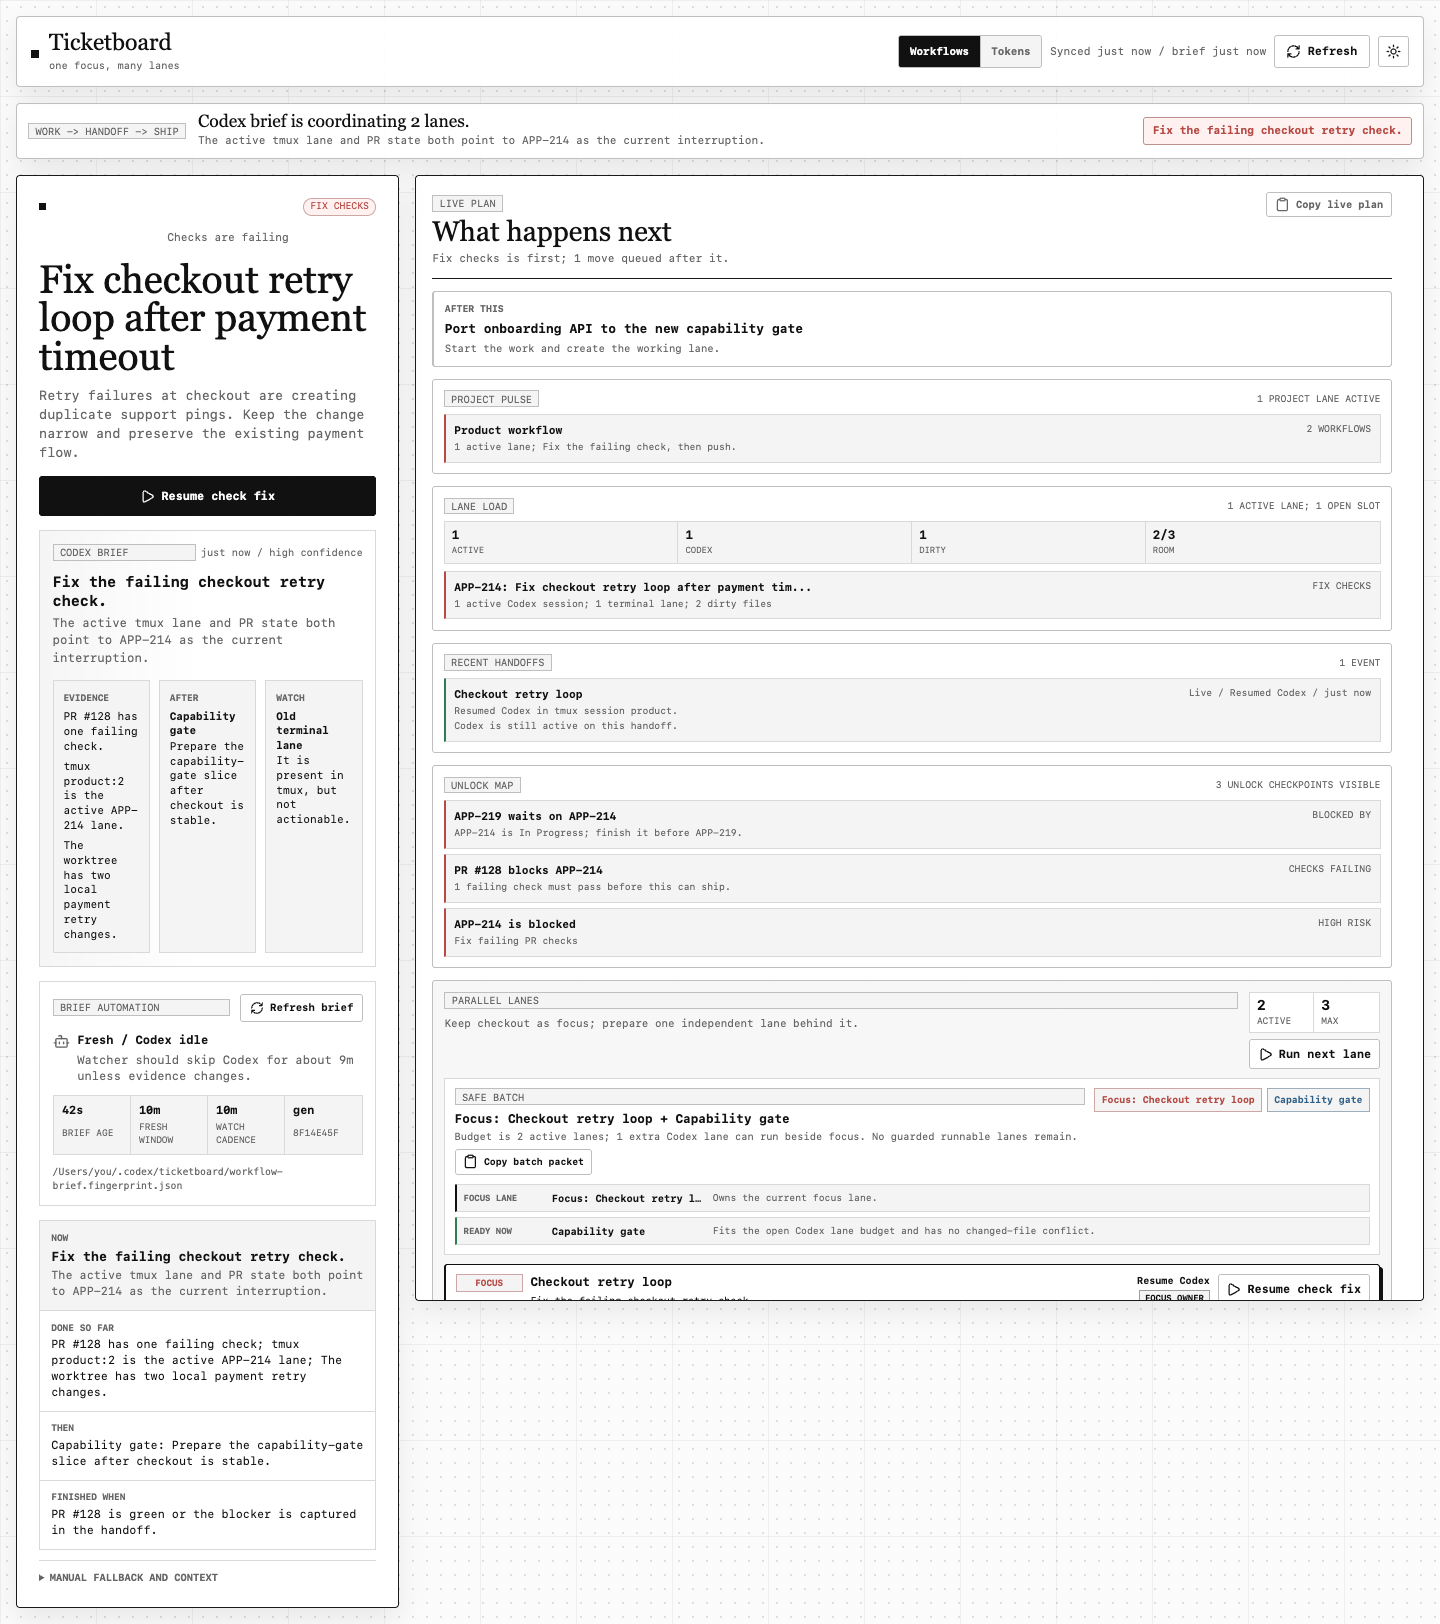
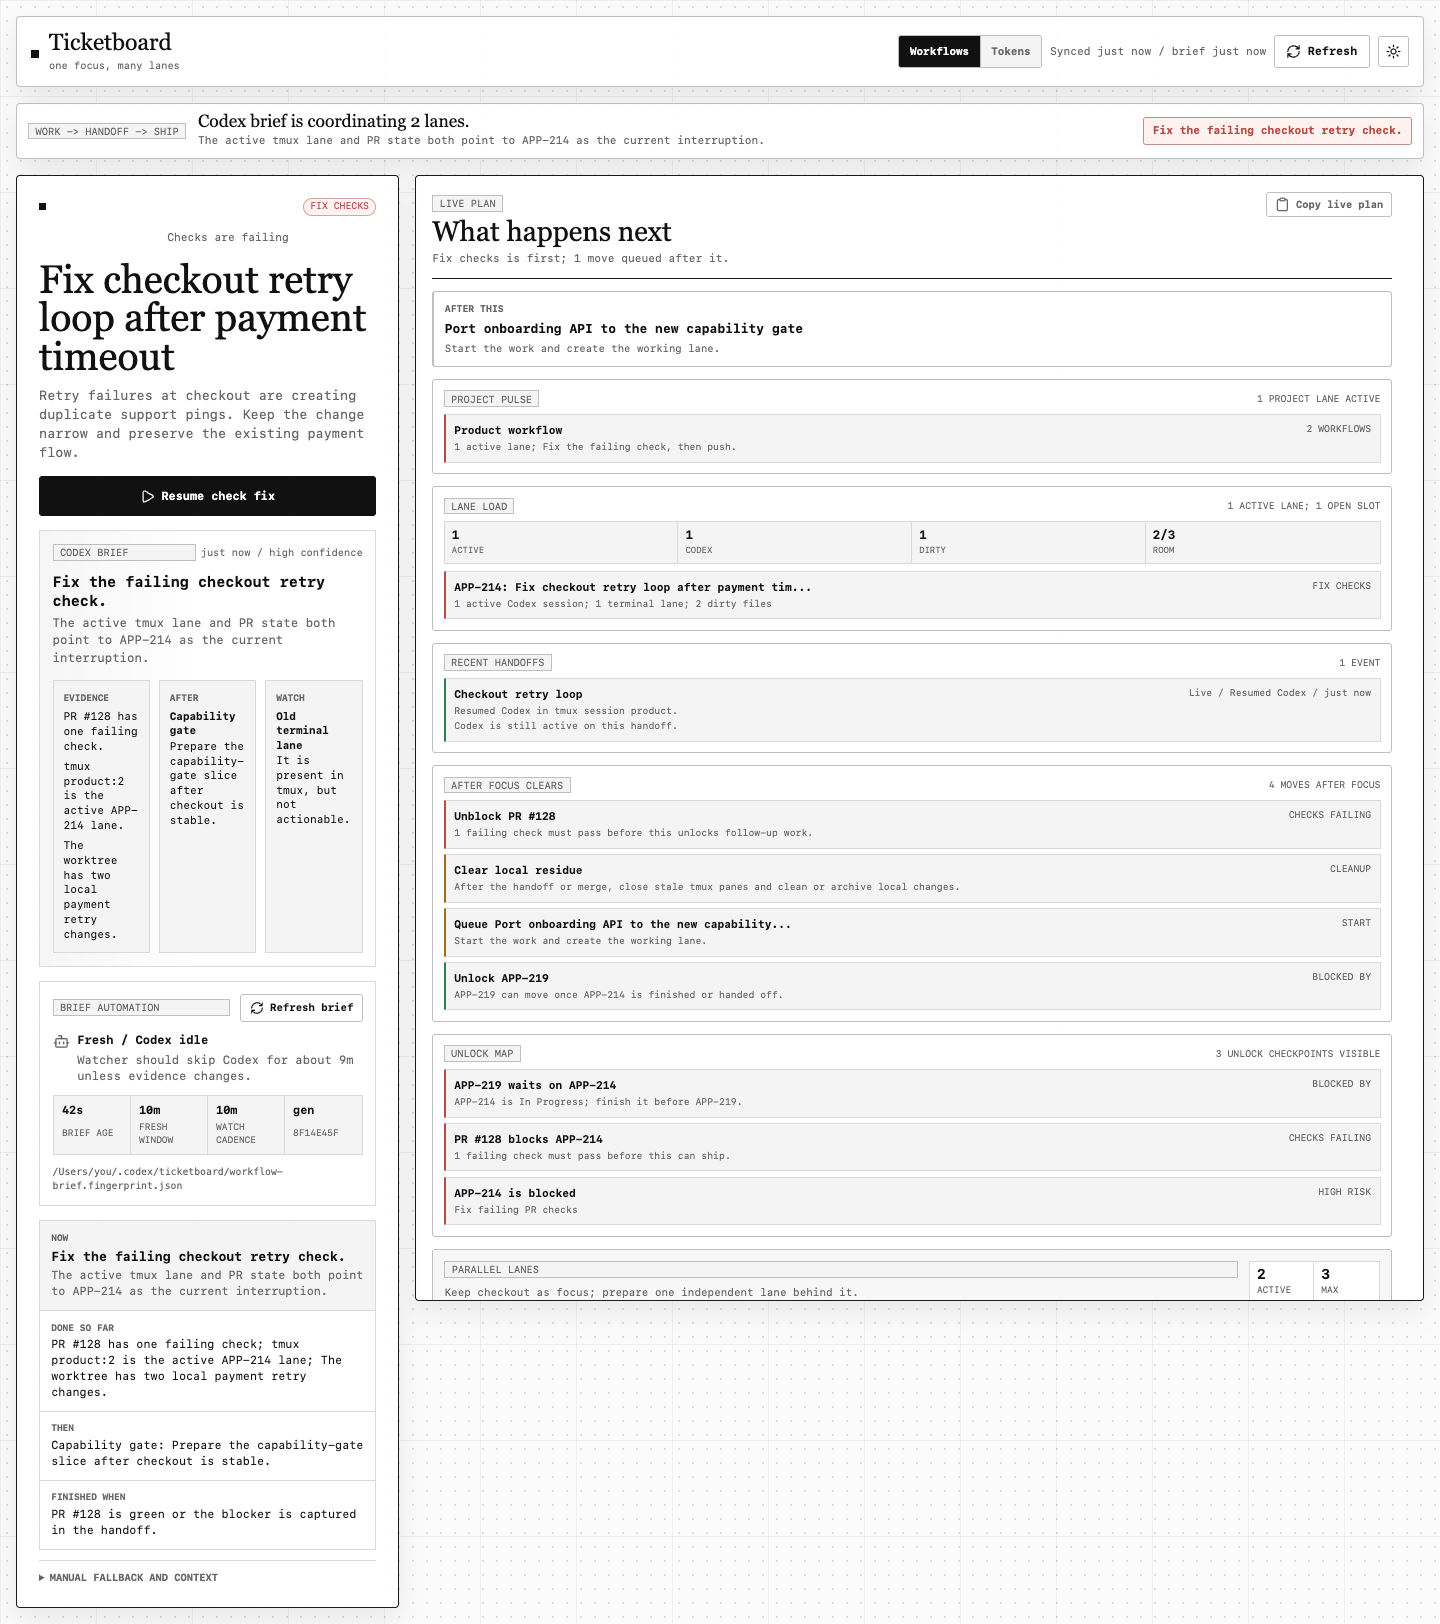
Forecast follow-up moves after focus

Changed region(s): [[0.3125, 0.4926, 0.9688, 0.8005]]

diff --git a/src/App.tsx b/src/App.tsx
@@ -193,6 +193,20 @@ type UnlockMap = {
   summary: string;
 };
 
+type CompletionForecastItem = {
+  detail: string;
+  id: string;
+  meta: string;
+  title: string;
+  tone: UnlockTone;
+  workflowId: string | null;
+};
+
+type CompletionForecast = {
+  items: Array<CompletionForecastItem>;
+  summary: string;
+};
+
 type ProjectPulseItem = {
   activeCount: number;
   detail: string;
@@ -1322,6 +1336,8 @@ function ProjectPlanRail({
   const laneLoad = buildLaneLoad({ parallelPlan, workflows });
   const projectPulse = buildProjectPulse(workflows);
   const unlockMap = buildUnlockMap({ dashboard, workflows });
+  const selectedWorkflow =
+    workflows.find((workflow) => workflow.id === selectedWorkflowId) ?? null;
   const parallelBatch = parallelPlan
     ? parallelBatchFor({
         dashboard,
@@ -1331,7 +1347,15 @@ function ProjectPlanRail({
         workflows,
       })
     : null;
+  const completionForecast = buildCompletionForecast({
+    dashboard,
+    parallelBatch,
+    selectedWorkflow,
+    unlockMap,
+    workflows,
+  });
   const livePlanPacket = buildLivePlanPacket({
+    completionForecast,
     dashboard,
     handoffs,
     laneLoad,
@@ -1381,6 +1405,8 @@ function ProjectPlanRail({
       />
 
       <HandoffLedger handoffs={handoffs} onSelect={onSelect} workflows={workflows} />
+
+      <CompletionForecastPanel forecast={completionForecast} onSelect={onSelect} />
 
       <UnlockMapPanel
         onSelect={onSelect}
@@ -1729,6 +1755,58 @@ function UnlockMapPanel({
           )
         ) : (
           <p>No explicit Linear blockers or PR gates are visible.</p>
+        )}
+      </div>
+    </section>
+  );
+}
+
+function CompletionForecastPanel({
+  forecast,
+  onSelect,
+}: {
+  forecast: CompletionForecast;
+  onSelect: (id: string) => void;
+}) {
+  return (
+    <section className="completion-forecast" data-completion-forecast>
+      <div className="unlock-head">
+        <span className="section-kicker">After focus clears</span>
+        <small>{forecast.summary}</small>
+      </div>
+      <div className="unlock-list">
+        {forecast.items.length ? (
+          forecast.items.map((item) =>
+            item.workflowId ? (
+              <button
+                className={`unlock-item unlock-item-${item.tone}`}
+                data-completion-forecast-item={item.id}
+                key={item.id}
+                onClick={() => onSelect(item.workflowId as string)}
+                type="button"
+              >
+                <span>
+                  <strong>{item.title}</strong>
+                  <em>{item.detail}</em>
+                </span>
+                <small>{item.meta}</small>
+              </button>
+            ) : (
+              <span
+                className={`unlock-item unlock-item-${item.tone}`}
+                data-completion-forecast-item={item.id}
+                key={item.id}
+              >
+                <span>
+                  <strong>{item.title}</strong>
+                  <em>{item.detail}</em>
+                </span>
+                <small>{item.meta}</small>
+              </span>
+            ),
+          )
+        ) : (
+          <p>No follow-up is visible for the selected workflow.</p>
         )}
       </div>
     </section>
@@ -3445,6 +3523,173 @@ function buildUnlockMap({
   };
 }
 
+function buildCompletionForecast({
+  dashboard,
+  parallelBatch,
+  selectedWorkflow,
+  unlockMap,
+  workflows,
+}: {
+  dashboard: DashboardData;
+  parallelBatch: ParallelBatch | null;
+  selectedWorkflow: WorkflowItem | null;
+  unlockMap: UnlockMap;
+  workflows: Array<WorkflowItem>;
+}): CompletionForecast {
+  if (!selectedWorkflow) {
+    return {
+      items: [],
+      summary: 'Select a workflow',
+    };
+  }
+
+  const byTicket = workflowByTicketId(workflows);
+  const selectedTicketIds = workflowTicketIds(selectedWorkflow);
+  const items: Array<CompletionForecastItem> = [];
+  const seen = new Set<string>();
+  const add = (item: CompletionForecastItem) => {
+    if (seen.has(item.id)) return;
+    seen.add(item.id);
+    items.push(item);
+  };
+
+  for (const ticket of dashboard.linearTickets) {
+    for (const relation of ticket.relatedIssues) {
+      const edge = unlockEdgeFromRelation(ticket, relation);
+      if (!edge || !selectedTicketIds.has(edge.blocker.ticketId.toUpperCase())) {
+        continue;
+      }
+      const blockedWorkflow = byTicket.get(edge.blocked.ticketId.toUpperCase()) ?? null;
+      add({
+        detail: `${edge.blocked.ticketId} can move once ${edge.blocker.ticketId} is finished or handed off.`,
+        id: `forecast:linear:${edge.blocker.ticketId}:${edge.blocked.ticketId}`,
+        meta: relationLabel(edge.relationType),
+        title: `Unlock ${edge.blocked.ticketId}`,
+        tone: 'ready',
+        workflowId: blockedWorkflow?.id ?? null,
+      });
+    }
+  }
+
+  for (const pr of selectedWorkflow.prs) {
+    if (pr.checkSummary.state === 'green' && !pr.isDraft) {
+      add({
+        detail: pr.reviewDecision === 'CHANGES_REQUESTED'
+          ? 'Checks are green, but review changes still need a response.'
+          : 'After merge, refresh Ticketboard and clear any leftover local lane.',
+        id: `forecast:pr:${pr.number}:green`,
+        meta: pr.reviewDecision === 'APPROVED' ? 'Approved' : 'Green',
+        title: `Ship PR #${pr.number}`,
+        tone: pr.reviewDecision === 'CHANGES_REQUESTED' ? 'waiting' : 'ready',
+        workflowId: selectedWorkflow.id,
+      });
+    } else if (pr.checkSummary.state === 'red') {
+      add({
+        detail: `${moveCount(pr.checkSummary.failed, 'failing check')} must pass before this unlocks follow-up work.`,
+        id: `forecast:pr:${pr.number}:red`,
+        meta: 'Checks failing',
+        title: `Unblock PR #${pr.number}`,
+        tone: 'blocked',
+        workflowId: selectedWorkflow.id,
+      });
+    } else if (pr.checkSummary.state === 'pending') {
+      add({
+        detail: `${moveCount(pr.checkSummary.pending, 'pending check')} still needs a result before the lane can ship.`,
+        id: `forecast:pr:${pr.number}:pending`,
+        meta: 'Waiting',
+        title: `Watch PR #${pr.number}`,
+        tone: 'waiting',
+        workflowId: selectedWorkflow.id,
+      });
+    }
+  }
+
+  const readyDecision = parallelBatch?.decisions.find(
+    (decision) =>
+      decision.status === 'ready' &&
+      decision.workflowId &&
+      decision.workflowId !== selectedWorkflow.id,
+  );
+  if (readyDecision) {
+    add({
+      detail: readyDecision.reason,
+      id: `forecast:batch:${readyDecision.id}`,
+      meta: 'Parallel slot',
+      title: `Start ${readyDecision.label}`,
+      tone: 'ready',
+      workflowId: readyDecision.workflowId,
+    });
+  }
+
+  const directUnlock = unlockMap.items.find(
+    (item) => item.workflowId && item.workflowId !== selectedWorkflow.id,
+  );
+  if (directUnlock) {
+    add({
+      detail: directUnlock.detail,
+      id: `forecast:unlock:${directUnlock.id}`,
+      meta: directUnlock.meta,
+      title: directUnlock.title,
+      tone: directUnlock.tone,
+      workflowId: directUnlock.workflowId,
+    });
+  }
+
+  if (workflowHasLiveLane(selectedWorkflow)) {
+    add({
+      detail: 'After the handoff or merge, close stale tmux panes and clean or archive local changes.',
+      id: `forecast:cleanup:${selectedWorkflow.id}`,
+      meta: 'Cleanup',
+      title: 'Clear local residue',
+      tone: 'waiting',
+      workflowId: selectedWorkflow.id,
+    });
+  }
+
+  const nextWorkflow = workflows.find(
+    (workflow) =>
+      workflow.id !== selectedWorkflow.id &&
+      workflow.intent !== 'clean' &&
+      workflow.intent !== 'watch',
+  );
+  if (nextWorkflow) {
+    add({
+      detail: nextWorkflow.nextStep,
+      id: `forecast:next:${nextWorkflow.id}`,
+      meta: INTENT_LABELS[nextWorkflow.intent],
+      title: `Queue ${truncate(nextWorkflow.title, 42)}`,
+      tone: 'waiting',
+      workflowId: nextWorkflow.id,
+    });
+  }
+
+  const limited = items
+    .sort((left, right) => unlockToneRank(left.tone) - unlockToneRank(right.tone))
+    .slice(0, 4);
+
+  return {
+    items: limited,
+    summary: limited.length
+      ? `${moveCount(limited.length, 'move')} after focus`
+      : 'No follow-up visible',
+  };
+}
+
+function workflowTicketIds(workflow: WorkflowItem) {
+  const ticketIds = new Set<string>();
+  for (const ticketId of [
+    workflow.ticket?.ticketId,
+    workflow.linearTicket?.ticketId,
+    ...workflow.prs.flatMap((pr) => pr.ticketIds),
+    ...workflow.sessions.flatMap((session) => session.ticketIds),
+    ...workflow.worktrees.flatMap((worktree) => worktree.ticketIds),
+    ...workflow.windows.flatMap((window) => window.ticketIds),
+  ]) {
+    if (ticketId) ticketIds.add(ticketId.toUpperCase());
+  }
+  return ticketIds;
+}
+
 function workflowByTicketId(workflows: Array<WorkflowItem>) {
   const byTicket = new Map<string, WorkflowItem>();
   for (const workflow of workflows) {
@@ -4394,6 +4639,7 @@ function buildWorkflowPacket(workflow: WorkflowItem, dashboard: DashboardData) {
 }
 
 function buildLivePlanPacket({
+  completionForecast,
   dashboard,
   handoffs,
   laneLoad,
@@ -4404,6 +4650,7 @@ function buildLivePlanPacket({
   unlockMap,
   workflows,
 }: {
+  completionForecast: CompletionForecast;
   dashboard: DashboardData;
   handoffs: Array<HandoffEvent>;
   laneLoad: LaneLoad;
@@ -4443,6 +4690,13 @@ function buildLivePlanPacket({
     ...(unlockMap.items.length
       ? unlockMap.items.map((item) => `- ${item.title}: ${item.detail} (${item.meta})`)
       : ['- No explicit dependency blockers or PR gates are visible.']),
+    '',
+    '## After focus clears',
+    ...(completionForecast.items.length
+      ? completionForecast.items.map(
+          (item) => `- ${item.title}: ${item.detail} (${item.meta})`,
+        )
+      : ['- No follow-up is visible for the selected workflow.']),
     '',
     '## Parallel lanes',
     ...(parallelPlan

diff --git a/src/styles.css b/src/styles.css
@@ -1392,6 +1392,7 @@ button.plan-digest-item {
   border-left-color: var(--border-strong);
 }
 
+.completion-forecast,
 .unlock-map {
   display: grid;
   gap: 0.5rem;

diff --git a/README.md b/README.md
@@ -12,6 +12,7 @@ It is designed to answer one question quickly: **what should own focus, what can
 
 - Picks one current workflow from live local and remote signals.
 - Maps Linear blockers and PR gates into an unlock order.
+- Forecasts what finishing the focused lane should unlock or queue next.
 - Groups active work by Linear project so project pressure is visible before lane detail.
 - Shows current Codex, terminal, and dirty worktree lane load against the planned capacity.
 - Builds a lane plan for focus work, parallel Codex candidates, waiting checkpoints, and cleanup.